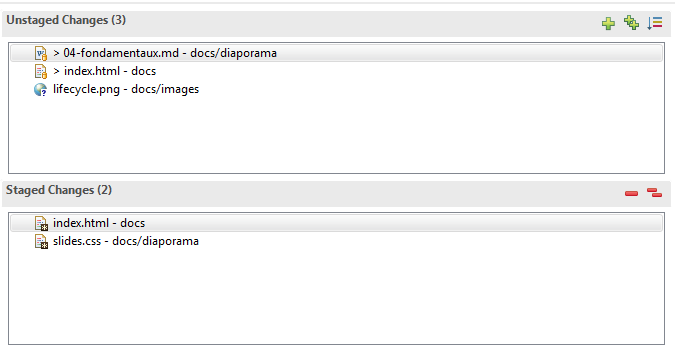
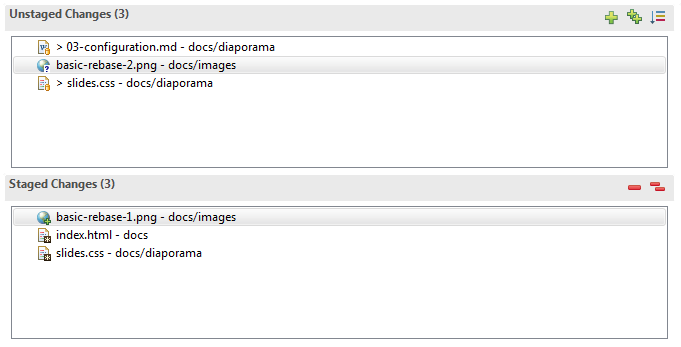
git status : nouvelle version avec A  (ajout)

diff --git a/docs/index.html b/docs/index.html
@@ -96,7 +96,7 @@
 
 		<script src="lib/js/head.min.js"></script>
 		<script src="js/reveal.js"></script>
-
+ 
 		<script>
 			// More info about config & dependencies:
 			// - https://github.com/hakimel/reveal.js#configuration

diff --git a/docs/diaporama/04-fondamentaux.md b/docs/diaporama/04-fondamentaux.md
@@ -48,30 +48,46 @@ Clôner un dépôt Git distant
 ```bash
 > git status
 On branch master
+Your branch is ahead of 'origin/master' by 1 commit.
+	(use "git push" to publish your local commits)
 Changes to be committed:
 	(use "git reset HEAD <file>..." to unstage)
+
 		modified:		docs/diaporama/slides.css
+		new file:		docs/images/basic-rebase-1.png
 		modified:		docs/index.html
 
 Changes not staged for commit:
 	(use "git add <file>..." to update what will be committed)
 	(use "git checkout -- <file>..." to discard changes in working directory)
-		modified:		docs/diaporama/04-fondamentaux.md
-		modified:		docs/index.html
+
+		modified:		docs/diaporama/03-configuration.md
+		modified:		docs/diaporama/slides.css
+		modified:		docs/images/egit-add.png
 
 Untracked files:
 	(use "git add <file>..." to include in what will be committed)
-		docs/images/lifecycle.png
+
+	docs/images/basic-rebase-2.png
 ```
-Version courte : `git status --short`
- - colonne de gauche = copie de travail ; colonne de droite = index
+
+
+%%%
+
+
+<!-- .slide: class="slide" data-background-image="images/logo-git.png" data-background-size="600px" -->
+### Version courte : `git status --short`
+ 
+ - colonne de gauche = copie de travail
+ - colonne de droite = index
 
 ```bash
 > git status -s
- M	docs/diaporama/04-fondamentaux.md
-M	docs/diaporama/slides.css
-MM	docs/index.html
-??	docs/images/lifecycle.png
+ M	docs/diaporama/03-configuration.md
+MM	docs/diaporama/slides.css
+A	docs/images/basic-rebase-1.png
+M	docs/index.html
+??	docs/images/basic-rebase-2.png
 ```
 
 
@@ -116,10 +132,11 @@ git reset .
 
 Résultat de la commande `git status -s` :
 ```bash
- M	docs/diaporama/04-fondamentaux.md
-M	docs/diaporama/slides.css
-MM	docs/index.html
-??	docs/images/lifecycle.png
+ M	docs/diaporama/03-configuration.md
+MM	docs/diaporama/slides.css
+A	docs/images/basic-rebase-1.png
+M	docs/index.html
+??	docs/images/basic-rebase-2.png
 ```
 
 L’interface graphique est ici clairement un atout :

diff --git a/docs/diaporama/03-configuration.md b/docs/diaporama/03-configuration.md
@@ -116,7 +116,10 @@ git help <verb>
 ```
 
 Autant aller voir sur internet en français :
- - [Git Book (fr)](https://git-scm.com/book/fr/v1/)
+ - [Git Book (fr)](https://git-scm.com/book/fr/v2)
+
+Ou en anglais
+ - [Git Book (en)](https://git-scm.com/book/en/v2)
 
 Pour un aide-mémoire rapide :
 ```bash
